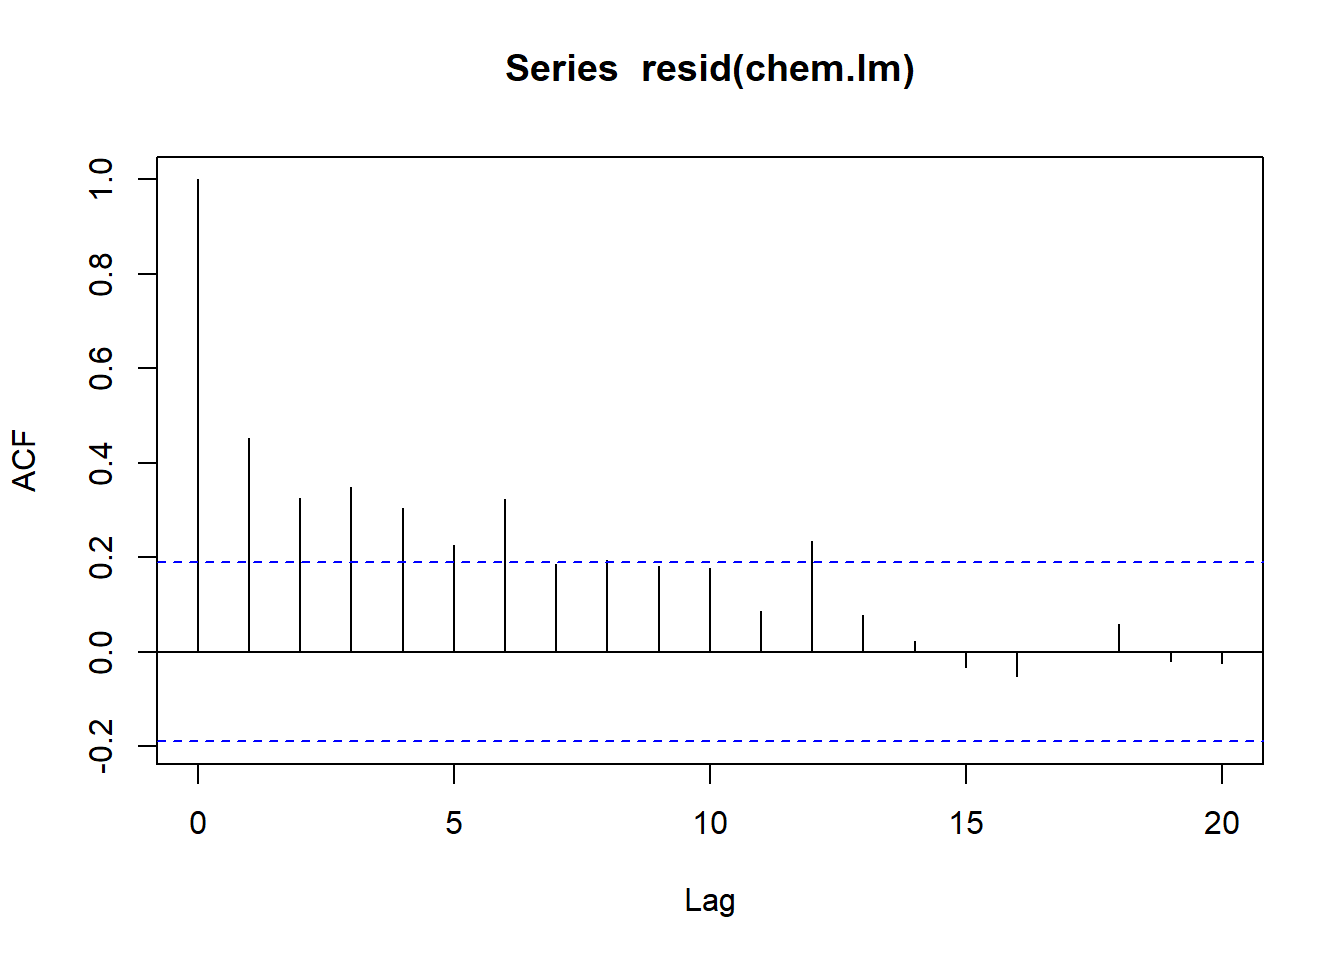
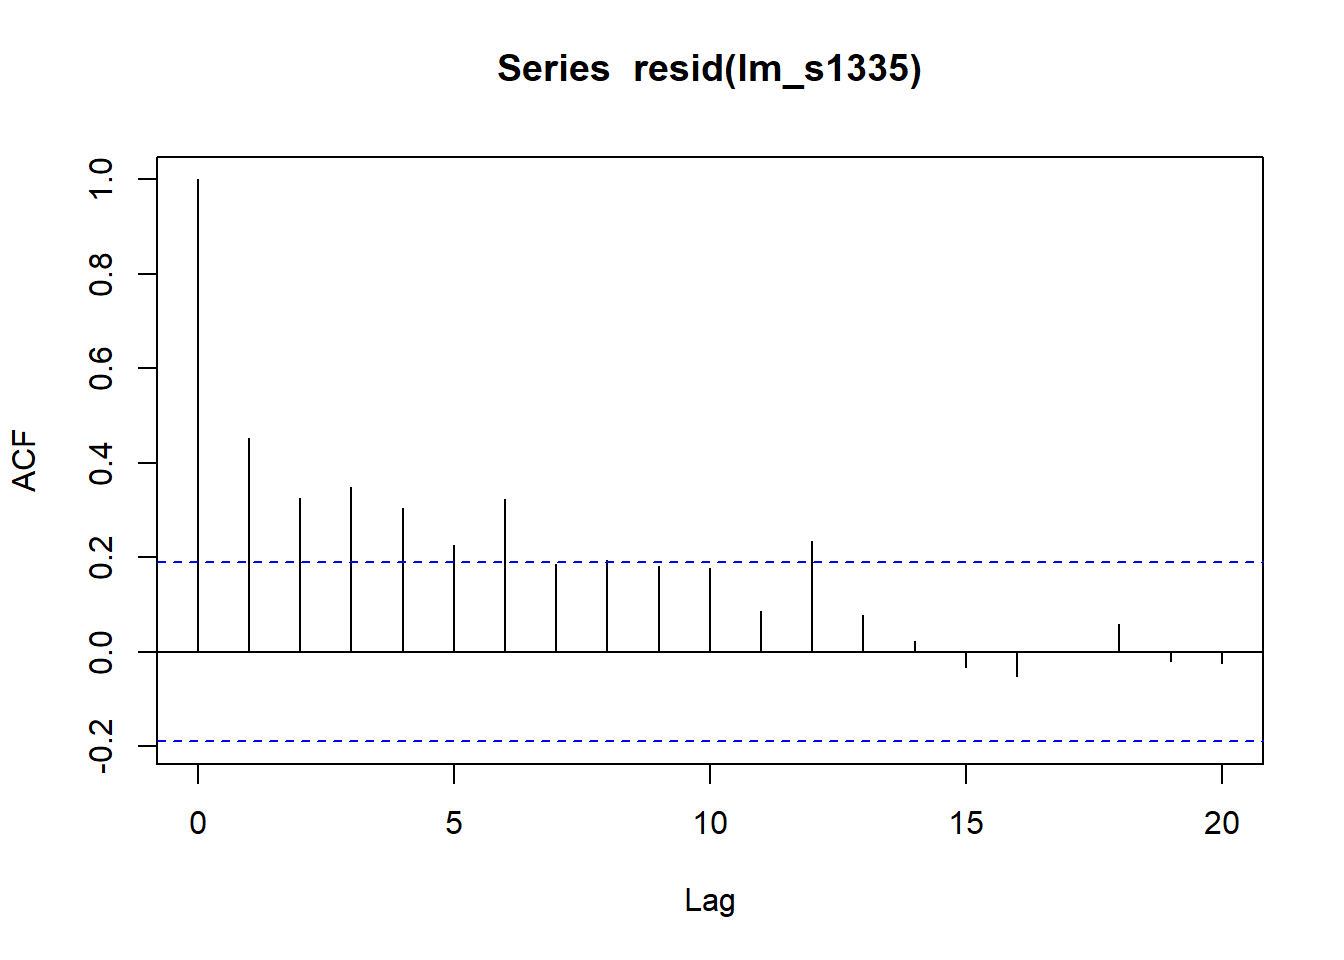
updated content + knit

Changed region(s): [[0.375, 0.0312, 0.6875, 0.0938]]

diff --git a/content/post/2021-11-02-part2-analysing-timeseries/index.md b/content/post/2021-11-02-part2-analysing-timeseries/index.md
@@ -1,6 +1,6 @@
 ---
 title: "Part 2: Analysing Time Series Data"
-subtitle: "Pharmacy Australia Centre of Excellence x Library R workshop"
+subtitle: "Library x Queensland Alliance for Environmental Health R workshop"
 slug: "analysing"
 author: "Catherine Kim"
 date: "2022-01-27"
@@ -42,7 +42,7 @@ In this hands-on session...
 
 ```r
 library(tidyverse)
-library(lubridate) # work with dates
+library(lubridate) # work with date/time data
 library(readxl) # read excel files
 
 library(zoo)
@@ -52,21 +52,46 @@ library(tseries) # test for stationarity
 
 ## About the data
 
-...
+Sampling design: Atmospheric samples of the Compound X were collected each day during seven consecutive days for different month in the year. Some year and months had less samples due to technical problems.
 
 ## Read in the excel sheets
 
 For this section, we will go the process of analysing time series for one site. 
 
-Let's read in the first just the first site sheet from the excel file.
+Let's read in the cleaned data from Part 1, filter out the same site (1335), and split the Date column with lubridate. This can be done in one go with piping.
 
 
 ```r
-s1335 <- read_excel("Data workshop.xlsx", sheet = 3) %>% 
-   rename(Site = 1, Date = 3, mg_per_day = 7) %>% 
-   mutate(Site = factor(Site), # change columns to factor
-                   Year = as.factor(Year),
-                   Month = as.factor(Month)) 
+s1335 <- read_csv("data/analytes_data_clean.csv") %>% 
+   filter(Site == "1335") %>% 
+   mutate(Year = year(Date),
+          Month = month(Date),
+          Day = day(Date),
+          Site = factor(Site)) # change Site to a factor
+## Rows: 720 Columns: 4
+## -- Column specification --------------------------------------------------------
+## Delimiter: ","
+## chr  (1): Analyte
+## dbl  (2): Site, mg_per_day
+## date (1): Date
+## 
+## i Use `spec()` to retrieve the full column specification for this data.
+## i Specify the column types or set `show_col_types = FALSE` to quiet this message.
+s1335
+## # A tibble: 352 x 7
+##    Site  Analyte Date       mg_per_day  Year Month   Day
+##    <fct> <chr>   <date>          <dbl> <dbl> <dbl> <int>
+##  1 1335  x       1991-11-28      0.253  1991    11    28
+##  2 1335  x       1991-11-29      0.239  1991    11    29
+##  3 1335  x       1991-11-30      0.197  1991    11    30
+##  4 1335  x       1991-12-01      0.173  1991    12     1
+##  5 1335  x       1991-12-02      0.222  1991    12     2
+##  6 1335  x       1991-12-03      0.191  1991    12     3
+##  7 1335  x       1992-01-30      0.298  1992     1    30
+##  8 1335  x       1992-01-31      0.253  1992     1    31
+##  9 1335  x       1992-02-01      0.256  1992     2     1
+## 10 1335  x       1992-02-02      0.284  1992     2     2
+## # ... with 342 more rows
 ```
 
 ### Visualize the data for one site
@@ -90,18 +115,18 @@ s1335 %>%
    arrange(-count) # arrange by count column in descending order
 ## `summarise()` has grouped output by 'Year'. You can override using the `.groups` argument.
 ## # A tibble: 68 x 3
-##    Year  Month count
-##    <fct> <fct> <int>
-##  1 1992  10        7
-##  2 1993  2         7
-##  3 1993  4         7
-##  4 1993  6         7
-##  5 1993  8         7
-##  6 1993  12        7
-##  7 1994  2         7
-##  8 1994  6         7
-##  9 1994  8         7
-## 10 1994  12        7
+##     Year Month count
+##    <dbl> <dbl> <int>
+##  1  1992    10     7
+##  2  1993     2     7
+##  3  1993     4     7
+##  4  1993     6     7
+##  5  1993     8     7
+##  6  1993    12     7
+##  7  1994     2     7
+##  8  1994     6     7
+##  9  1994     8     7
+## 10  1994    12     7
 ## # ... with 58 more rows
 ```
 
@@ -212,7 +237,6 @@ k32 <- rollmean(xts_1335, k = 32)
 
 kALL <- merge.xts(xts_1335, k2, k4, k8, k16, k32)
 head(kALL)
-## Warning: timezone of object (UTC) is different than current timezone ().
 ##             xts_1335        k2        k4        k8 k16 k32
 ## 1991-11-28 0.2530688 0.2460383        NA        NA  NA  NA
 ## 1991-11-29 0.2390078 0.2181042 0.2155385        NA  NA  NA
@@ -399,7 +423,7 @@ acf(s1335$mg_per_day)
 
 <img src="{{< blogdown/postref >}}index_files/figure-html/unnamed-chunk-17-1.png" width="672" />
 
-You can used the ACF to estimate the number of moving average (MA) coefficients in the model. Here, there are 3 to 4 significant autocorrelation. The lags crossing the dotted blue line are statistically significant.
+You can used the ACF to estimate the number of moving average (MA) coefficients in the model. Here, the number of significant lags is high. The lags crossing the dotted blue line are statistically significant.
 
 The **partial autocorrelation function** can also be plotted. The partial correlation is the left over correlation at lag *k* between all data points that are *k* steps apart accounting for the correlation with the data between *k* steps.
 
@@ -447,39 +471,49 @@ acf(ar_1335$res[-(1:ar_1335$order)], lag = 50)
 
 <img src="{{< blogdown/postref >}}index_files/figure-html/unnamed-chunk-20-1.png" width="672" />
 
-The correlogram of residuals has a few marinally significant lags (around 15 and between 30-40). The AR(4) model is a relatively good fit for the time series.
+The correlogram of residuals has a few marginally significant lags (around 15 and between 30-40). The AR(4) model is a relatively good fit for the time series.
 
 ## Regression
 
-*Deterministic* trends and seasonal variation can be modelled using regression.
+*Deterministic* trends and seasonal variation can be modeled using regression.
 
 Linear models are non-stationary for time series data, thus a non-stationary time series must be differenced.
 
 
 ```r
-chem <- window(ts_1335, start = 1991)
+diff <- window(ts_1335, start = 1991)
 ## Warning in window.default(x, ...): 'start' value not changed
-head(chem)
+head(diff)
 ##            Jan       Feb       Mar       Apr May Jun Jul Aug Sep Oct       Nov
 ## 1991                                                                 0.2530688
 ## 1992 0.1972005 0.1728767 0.2224569 0.1909951                                  
 ##            Dec
 ## 1991 0.2390078
 ## 1992
-chem.lm <- lm(chem ~ time(chem))
-coef(chem.lm)
-##  (Intercept)   time(chem) 
+lm_s1335 <- lm(diff ~ time(diff)) # extract the time component as the explanatory variable
+coef(lm_s1335)
+##  (Intercept)   time(diff) 
 ## -32.15810054   0.01623258
-confint(chem.lm)
+confint(lm_s1335)
 ##                    2.5 %       97.5 %
 ## (Intercept) -43.55848720 -20.75771387
-## time(chem)    0.01052169   0.02194348
-acf(resid(chem.lm))
+## time(diff)    0.01052169   0.02194348
+acf(resid(lm_s1335))
 ```
 
 <img src="{{< blogdown/postref >}}index_files/figure-html/unnamed-chunk-21-1.png" width="672" />
 
-## gls
+While the confidence interval does not include 0, which provides statistical evidence of increasing Compound X in the atmosphere, the ACF of the model residuals are signficantly positively autocorrelated. This means the model likely understimates the standard error and the confidence interval is too narrow.
+
+## Generalised Least Squares
+
+*Generalised Least Squares* model can account for some of this autocorrelation.
+
+From 5.4 of Cowpertwait & Metcalfe, 2009: 
+
+> *Generalised Least Squares* can be used to provide better estimates of the standard errors of the regression parameters to account for the autocorrelation in the residual series.
+
+A correlation structure is defined using the `cor` argument. The value is estimated from the acf at lag 1 in the previous correlogram. The residuals are approximated as an AR(1).
 
 
 ```r
@@ -492,43 +526,51 @@ library(nlme)
 ## The following object is masked from 'package:dplyr':
 ## 
 ##     collapse
-chem.gls <- gls(chem ~ time(chem), cor = corAR1(0.7))
-coef(chem.gls)
-##  (Intercept)   time(chem) 
-## -31.28011126   0.01579311
-confint(chem.gls)
-##                     2.5 %       97.5 %
-## (Intercept) -50.148423710 -12.41179881
-## time(chem)    0.006341238   0.02524498
-acf(resid(chem.gls))
+gls_s1335 <- gls(ts_1335 ~ time(ts_1335), cor = corAR1(0.4))
+coef(gls_s1335)
+##   (Intercept) time(ts_1335) 
+##  -31.28011034    0.01579311
+confint(gls_s1335)
+##                       2.5 %       97.5 %
+## (Intercept)   -50.148432309 -12.41178837
+## time(ts_1335)   0.006341232   0.02524498
+acf(resid(gls_s1335))
 ```
 
 <img src="{{< blogdown/postref >}}index_files/figure-html/unnamed-chunk-22-1.png" width="672" />
 
-## seasonal component
+The acf of the model residuals still have significant autocorrelation.
+
+## Adding a seasonal component
 
 
 ```r
-Seas <- cycle(chem)
-Time <- time(chem)
-chem.lm <- lm(chem ~ 0 + Time + factor(Seas))
-coef(chem.lm)
+Seas <- cycle(diff)
+Time <- time(diff)
+s1335_slm <- lm(ts_1335 ~ 0 + Time + factor(Seas))
+coef(s1335_slm)
 ##           Time  factor(Seas)1  factor(Seas)2  factor(Seas)3  factor(Seas)4 
 ##     0.01659631   -32.89287141   -32.89988569   -32.90702026   -32.89799718 
 ##  factor(Seas)5  factor(Seas)6  factor(Seas)7  factor(Seas)8  factor(Seas)9 
 ##   -32.87111561   -32.88731478   -32.88086313   -32.89100810   -32.89137196 
 ## factor(Seas)10 factor(Seas)11 factor(Seas)12 
 ##   -32.89752284   -32.80113584   -32.89359047
-acf(resid(chem.lm))
+acf(resid(s1335_slm))
 ```
 
 <img src="{{< blogdown/postref >}}index_files/figure-html/unnamed-chunk-23-1.png" width="672" />
 
-## ARIMA
+## Autoregressive Integated Moving Average (ARIMA)
+
+Autoregressive *integrate* moving average models define the model order (*p*, *d*, *q*). 
+
+[Cookbook R](https://rc2e.com/timeseriesanalysis#recipe-id085) explains it as:
+
+> *p* is the number of autoregressive coefficients, *d* is the degree of differencing, and *q* is tne number of moving average coefficients.
 
 
 ```r
-par(mfrow = c(2,1))
+par(mfrow = c(2,1)) # change window so 2 rows, 1 column of plots
 plot(ts_1335)
 plot(diff(ts_1335))
 ```
@@ -537,19 +579,106 @@ plot(diff(ts_1335))
 
 
 ```r
-AIC (arima(ts_1335, order = c(1,1,0),
-seas = list(order = c(1,0,0), 12)))
-## [1] -254.7406
-chem.arima <-  (arima(ts_1335, order = c(0,1,1),
-seas = list(order = c(0,0,1), 12)))
-
-acf(resid(chem.arima), lag = 50)
+arima_1 <-  arima(ts_1335, order = c(4,1,12))
+arima_1
+## 
+## Call:
+## arima(x = ts_1335, order = c(4, 1, 12))
+## 
+## Coefficients:
+##           ar1      ar2      ar3      ar4      ma1     ma2     ma3     ma4
+##       -0.2343  -0.3748  -0.2154  -0.3859  -0.3050  0.0544  0.1375  0.2879
+## s.e.   0.1679   0.1639   0.1456   0.1608   0.2137  0.1596  0.2386  0.3313
+##           ma5    ma6     ma7      ma8      ma9    ma10     ma11    ma12
+##       -0.3732  0.006  -0.047  -0.1887  -0.2032  0.1031  -0.2518  0.4761
+## s.e.   0.1768  0.141   0.169   0.1581   0.1197  0.1276   0.1537  0.1400
+## 
+## sigma^2 estimated as 0.003314:  log likelihood = 147.01,  aic = -260.02
+acf(resid(arima_1), lag = 50)
 ```
 
 <img src="{{< blogdown/postref >}}index_files/figure-html/unnamed-chunk-25-1.png" width="672" />
 
+Let's run a model with order(1, 1, 1) and compare AIC.
+
+
+```r
+arima_2 <-  arima(ts_1335, order = c(1, 1, 1))
+arima_2
+## 
+## Call:
+## arima(x = ts_1335, order = c(1, 1, 1))
+## 
+## Coefficients:
+##          ar1      ma1
+##       0.1558  -0.7970
+## s.e.  0.1317   0.0825
+## 
+## sigma^2 estimated as 0.004417:  log likelihood = 136.59,  aic = -267.18
+acf(resid(arima_2), lag = 50)
+```
+
+<img src="{{< blogdown/postref >}}index_files/figure-html/unnamed-chunk-26-1.png" width="672" />
+
+The second model had a lower AIC. Let's use the `forecast::auto.arima()` function from the forecast package to search for the best *p, d, q*.
+
+
+```r
+arima_3 <- auto.arima(ts_1335, seasonal = FALSE, max.p = 20, max.q = 20)
+arima_3
+## Series: ts_1335 
+## ARIMA(0,1,1) 
+## 
+## Coefficients:
+##           ma1
+##       -0.7212
+## s.e.   0.0771
+## 
+## sigma^2 = 0.004519:  log likelihood = 135.9
+## AIC=-267.8   AICc=-267.68   BIC=-262.47
+acf(resid(arima_3), lag = 50)
+```
+
+<img src="{{< blogdown/postref >}}index_files/figure-html/unnamed-chunk-27-1.png" width="672" />
+
+```r
+autoplot(ts_1335) # plot the time series
+```
+
+<img src="{{< blogdown/postref >}}index_files/figure-html/unnamed-chunk-27-2.png" width="672" />
+
+## Seasonal ARIMA
+
+A seasonal component can also be added to ARIMA. The default for `auto.arima()` includes the seasonal component. 
+
+
+```r
+sarima <- auto.arima(ts_1335)
+sarima
+## Series: ts_1335 
+## ARIMA(0,1,1)(0,0,1)[12] 
+## 
+## Coefficients:
+##           ma1    sma1
+##       -0.6725  0.2765
+## s.e.   0.0849  0.1013
+## 
+## sigma^2 = 0.004255:  log likelihood = 139.19
+## AIC=-272.38   AICc=-272.14   BIC=-264.38
+acf(resid(sarima), lag = 50)
+```
+
+<img src="{{< blogdown/postref >}}index_files/figure-html/unnamed-chunk-28-1.png" width="672" />
+
+The addition of the seasonal component improves the AIC and the correlogram is close to the 'white noise' standard.
+
 ## Resources 
 
 Resources used to compile this session included:
+
+* [Introductory Time Series with R](https://link-springer-com.ezproxy.library.uq.edu.au/chapter/10.1007%2F978-0-387-88698-5_5) by Paul Cowpertwait and Andrew Metcalfe, Springer 2009.
 * [Ch 14 Time Series Analysis](https://rc2e.com/timeseriesanalysis) in R Cookbook, 2nd edition, by JD Long and Paul Teetor. Copyright 2019 JD Long and Paul Teetor, 978-1-492-04068-2
 * [Time Series Analysis with R](https://nicolarighetti.github.io/Time-Series-Analysis-With-R/) by Nicola Righetti
+* [Applied Time Series Analysis For Fisheries and Environmental Sciences](https://atsa-es.github.io/atsa-labs/sec-boxjenkins-aug-dickey-fuller.html) by Elizabeth Holmes, Mark Scheuerell, and Eric Ward.
+* [Time Series Analysis](http://r-statistics.co/Time-Series-Analysis-With-R.html) article by Selva Prabhakaran
+* [Working with Financial Time Series Data in R](https://faculty.washington.edu/ezivot/econ424/Working%20with%20Time%20Series%20Data%20in%20R.pdf) document by Eric Zivot.
